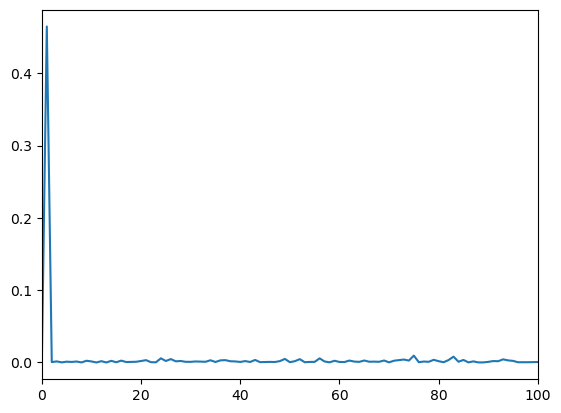
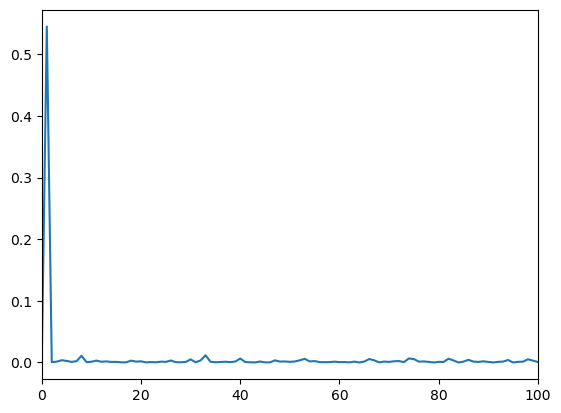
Update documentation

diff --git a/searchindex.js b/searchindex.js
@@ -1,1 +1,1 @@
-Search.setIndex({docnames:["ODE/1stODE","ODE/2ndODE","ODE/Laplace","ODE/Special_function","ODE/Sturm_Liouville","PDE/Fourier_Transform","PDE/Heat_equation","PDE/Laplace_equation","PDE/Wave_equation","README","content","intro","markdown","markdown-notebooks","notebooks"],envversion:{"sphinx.domains.c":2,"sphinx.domains.changeset":1,"sphinx.domains.citation":1,"sphinx.domains.cpp":3,"sphinx.domains.index":1,"sphinx.domains.javascript":2,"sphinx.domains.math":2,"sphinx.domains.python":2,"sphinx.domains.rst":2,"sphinx.domains.std":2,"sphinx.ext.intersphinx":1,"sphinxcontrib.bibtex":7,sphinx:56},filenames:["ODE/1stODE.md","ODE/2ndODE.md","ODE/Laplace.md","ODE/Special_function.md","ODE/Sturm_Liouville.md","PDE/Fourier_Transform.ipynb","PDE/Heat_equation.md","PDE/Laplace_equation.md","PDE/Wave_equation.md","README.md","content.md","intro.md","markdown.md","markdown-notebooks.md","notebooks.ipynb"],objects:{},objnames:{},objtypes:{},terms:{"000897":[],"001":3,"001020":5,"00146583":5,"004372":[],"00951841":[],"020358":[],"03115555":[],"0390407":[],"04475298":[],"08225842":[],"0th":[2,3],"0x103b4c4f0":5,"0x103ee1490":[],"0x1042f94f0":[],"0x104663f70":[],"0x1047cf4f0":[],"0x105c99ca0":14,"0x1093454f0":[],"0x1226221f0":[],"100":[3,4,5,14],"1000":[3,4,5],"103":3,"104":3,"105":3,"106":3,"108":3,"114":3,"115":3,"122":3,"126":3,"127":3,"1298":5,"132":3,"133":3,"137":3,"144":6,"145":6,"146":6,"151":6,"153":6,"164":6,"1717":8,"175":8,"1783":8,"1803":4,"1809":4,"181":8,"1822":6,"184":8,"185":8,"1855":4,"187":8,"1882":4,"189":8,"191":8,"195":8,"196":8,"19680801":14,"1982":3,"199":8,"1st":[1,2,3,6,11],"2017":[11,12],"205":8,"206":8,"213":7,"215":7,"217":7,"220":7,"222":7,"2a_":1,"2a_0":1,"2a_n":1,"2as":2,"2dx":4,"2nd":[0,2,3,6,8,11],"2pi":4,"2sy":2,"2t_":2,"2ux":0,"2xt":3,"2xy":1,"2y_":8,"30x":3,"35x":3,"429565":[],"437844":5,"472986":[],"4ae":1,"4sy":2,"4t_":2,"546832":[],"57721566":3,"94978566":[],"96410867":5,"9ae":1,"\u03bb":3,"\u8f38\u51fa\u7d50\u679c":5,"case":[0,2,3,4,6,7,8],"class":11,"default":[12,13],"final":[0,1,2,4,6],"float":[3,5],"fran\u00e7oi":4,"function":[0,1,6,7,8,11,12],"h\u00f4pital":3,"import":[0,1,2,3,4,5,6,11,14],"int":[0,1,2,4,6],"long":[0,1,3,4,8],"new":[2,3,4,7],"return":5,"short":10,"try":[1,2,3,4,6,8],"while":[0,3,4,6,7,8],Adding:8,But:[3,14],For:[0,1,2,3,4,6,7,8,12,14],ODE:[2,3,4,6,8,11],ODEs:[0,1,2,3,4,11],One:[0,1,2,3,4,6,8],P_s:0,Such:6,That:[1,2,6,8,13],The:[0,2,6,7,8,11,12,13],Then:[0,1,2,3,4,6,8],There:[0,1,2,3,4,10,11,12,14],These:[4,8],Use:0,Using:[0,1,2,4,6,7,8],With:[1,6,8,13],_0e:1,__init__:5,_ioncontext:14,a_0:[3,6],a_1:[1,3,4],a_1i:4,a_2:[1,4],a_2i:4,a_even:3,a_i:1,a_k:[4,5,8],a_n:[1,3,4,6,8],a_nx:3,abil:2,abl:1,about:[0,1,2,3,4,6,8,12,13,14],abov:[0,1,2,3,4,6,7,8,11],ac_2:4,acceler:[0,3],accept:12,accord:[0,1,2,3,4,6,8],accuraci:4,achiev:4,act:2,actual:[2,4],add:[6,12],add_:14,addit:[1,2,3,4,6],adiabat:0,adjac:8,adjoint:4,advanc:[11,12],advantag:0,advect:6,after:[2,4],again:[0,1,2,3,6,12],against:8,air:0,alambert:8,alembert:11,algebra:[1,2],align:[0,1,2,3,4,6,7,8,14],all:[0,1,2,3,4,6,8,11,12,13],allow:12,along:[1,3,6,8],alpha:[0,1,2,6,8],alpha_:6,alreadi:[0,2,12],also:[0,1,2,3,4,6,7,8,11,12,13,14],altern:[1,3,7],although:4,alwai:[0,4,6,8],amount:0,amplif:3,amplitud:[3,4],analysi:[0,6,11],analyt:[0,11],analyz:1,angl:0,angular:3,ani:[0,1,2,3,4,8,12,13],anoth:[0,1,2,3,4,12],answer:[0,1,2],appar:[1,3],appear:6,appli:[0,1,2,3,4,6,8,11],applic:[0,3,6],approach:[0,1,4,6,7,8,11],approx_i:4,approxim:4,arang:5,arbitrari:3,area:[1,3,4],ares:6,argmax:5,argument:3,aris:[2,3],around:[1,3,4],arrai:14,asarrai:5,assign:8,associ:[1,12],assum:[0,1,2,3,4,6,7,8],atmospher:[0,1,2,3,8,11],atom:6,attempt:[6,8],au_x:6,averag:[2,3],axes:14,axi:4,b_1:4,b_1y:4,b_2:4,b_2y:4,b_k:[4,5,8],b_n:[4,6,8],b_ne:6,back:[0,1,2,3,6,7,8],background:0,balanc:[0,6],ballist:0,bar:4,base:[0,1,2,3,4,11,13],basi:[2,4,6],basic:11,becaus:[2,3,6,8],becom:[2,3],been:[2,3,4],befor:[1,2],begin:[0,1,2,3,4,6,7,8,14],behind:1,being:12,below:[0,1,2,3,4,7],bernard:0,bernoulli:11,bessel:[4,7,11],bessel_output:3,beta:[1,2,6,8],better:1,between:[0,1,2,3,4,6,8],bib:12,bibliographi:12,bibtex:12,big:6,bit:1,block:[12,13],book:[12,13,14],both:[0,1,2,3,6,7,8,11,12],bottom:2,bound:[2,3,4,6],boundari:[0,1,6,7,8,11],box:12,build:12,built:[12,13],buoyanc:0,butterfli:0,by_1:1,by_2:1,c_0:[3,4],c_1:[1,2,3,4],c_1e:[1,2,4],c_1x:1,c_1y:1,c_1y_1:1,c_2:[1,2,4],c_2e:[1,2,4],c_2x:1,c_2y:1,c_2y_2:1,c_3:[1,3],c_3e:1,c_4:1,c_4e:1,c_5:3,c_7:3,c_k:[4,5],c_n:[3,4,6,7],c_p:0,c_v:0,calcul:[0,1,2,3,4,8],calculu:11,call:[0,1,2,3,4,6,12],can:[0,1,2,3,4,6,7,8,12,13,14],care:6,carri:[0,6],cartesian:7,cast:5,categor:[0,1,11],categori:[6,11],caus:[3,6],cbook:5,cdot:[1,2,3,6],cell:12,cengag:[11,12],center:[1,4],central:8,certain:[0,1,2,4,6,7,8],certainli:0,challeng:1,chang:[0,1,4,6,8],chao:[0,4],chapter:[1,2,3,4,6,7],character:0,characterist:[1,2,4,6,11],charl:4,check:[0,3,14],choic:[1,3],choos:[3,6,8],chosen:[4,6],circul:[0,2,3,4],circular:1,cite:12,classic:1,close:[0,1,4,6],cmap:14,code:[4,13],coef:4,coeffici:[2,3,6,8,11],cold:14,collect:3,color:14,combin:[0,1,3,4,6,7,8],come:[0,6],command:[12,13],common:0,commonmark:12,compar:[0,1],complet:[0,1,3,4,7,8],complex:[2,3,5,12],complexwarn:5,complic:[1,4,6,8],compon:2,comput:12,concentr:3,concept:[0,1,4],conclus:4,condit:[0,1,2,6,11],conjug:[1,5],connect:[0,2,4],conserv:[0,6,8],consid:[0,1,2,3,6,8],consin:8,consist:[2,6],constant:[0,2,3,4,6,7,8,11],constrain:[1,6],constraint:[3,6],content:[12,13],continu:[1,4],contribut:4,convect:[0,2],conveni:1,converg:[1,4],convert:[2,4,6,8,13],convolut:[4,11],coolwarm:14,coordin:[0,1,2,3,4,7,8],core:3,correspond:[0,1,2,3,4,7,8],cos:[0,1,2,3,5,6,7,8],cosh:2,count2:3,count:3,counteract:0,counterpart:2,cours:[0,1,3,4],covari:4,cover:[0,1,2,3,4,10],cramer:1,creat:[2,14],criteria:2,cross:[0,1,4],current:[0,1],custom_lin:14,cycl:4,cycler:14,cyclon:[0,3],cylind:[3,4,11],cylindr:3,data:[2,4,14],deal:[2,7,8],decid:[0,1,4],decompos:[1,2,3,7],decomposit:[1,2,3],default_env2:5,defin:[0,1,2,3,4,7,12,13],definit:[0,2,4],delta:[6,11],delta_:2,demonstr:[4,6,8],denomin:2,denot:3,densiti:[0,6],depart:2,depend:[1,6,12],deriv:[0,1,2,3,4,6,8],describ:[1,4,8],detail:[0,1,2,3,4,13],determin:[0,1,2,3,4,6,8],develop:[3,6,8],did:6,differ:[0,2,3,4,6,11,12],differenti:[0,1,2,3,4,6,11],diffus:[3,4,7,11],dim:3,dimens:[0,6,11],dirac:11,direct:[0,3,6,7,8,13],directli:[1,12],dirichlet:11,discard:[2,5],discontinu:2,discret:4,discuss:[1,3,4],dispers:[0,11],displac:[1,8],displai:[12,13],distinct:4,distribut:6,dive:2,divid:[0,2,4,6,7],doc:12,document:[12,13,14],doe:[1,2,4,6],doesn:[1,2,6,12],doing:6,dollar:14,domain:[4,6,7],don:[2,3,4],done:[0,3],down:[0,6],drag:0,drive:2,drop:[1,3,6],dt_:2,due:3,durat:2,dure:[0,4],dynam:[0,3,4,8],each:[0,1,2,3,4,6,7,8],earth:[0,1,3,4,6],easi:[0,4,6],easier:1,easiest:0,easili:[0,1,3,4,6,8],ecosystem:12,edg:[4,7],effect:[2,3,4],effici:[0,3],eigen:[3,4,6],eigenfunct:11,eigenvalu:3,either:6,electromagnet:3,emb:14,emit:1,enabl:[1,2,3],end:[0,1,2,3,4,5,6,7,8,14],energi:[0,3,4,6],engin:[4,6,11,12],enough:[1,6],enso:1,ensur:6,entir:[0,1,2,3,4,6,7,8,12],env:5,environ:6,environment:6,epsilon:2,equal:[1,2,3,4,6,7],equat:[0,2,3,4,11],equilibrium:[4,6],equip:11,equiv:3,equival:[0,4,6,8],era:4,escap:14,especi:[6,8],eta:8,etc:14,euler:[3,11],evalu:6,even:[0,3,4,11],everi:[1,4],evid:[1,2,4],evolv:[1,6],exactli:[0,2],examin:[0,3],exampl:[3,11,12,14],except:[1,8],exchang:[0,6],execut:13,exist:[0,2,4,6,8,11,12],exp:5,expand:[0,3],expans:[1,3,11],expect:[6,8,11],experi:[0,2],expert:2,explain:4,expon:[1,3],exponenti:2,express:3,extend:6,extens:12,extern:[1,6,8],extrem:[2,4],eyewal:2,f_1:1,f_2:1,f_i:1,f_n:1,face:0,fact:[3,6],factor:[0,2,4],fall:[0,6],familiar:6,famou:[2,3,4],far:[0,6],featur:[3,4],feel:3,few:[0,1,3,4,6,10],fft:5,field:[0,2],fig1:0,fig:[4,14],figsiz:14,figur:[0,1,2,3,4,7],file:13,filter:[2,4,11],find:[0,1,2,3,6,7,8,11],finit:[2,6,8],fire:1,first:[0,1,2,3,4,6,7,8,11,12],fix:[8,14],flat:4,flatten:6,flavor:12,float64:3,flow:0,flowchart:2,fluid:3,flux:6,focu:[2,3],follow:[0,1,2,3,4,6,7,8,12,13],forc:[0,1,2,8,11],forget:3,form:[2,3,6,7,8,11],formul:11,formula:11,forth:[0,2,3],found:[0,4],four:7,fourier:[2,3,6,8,11],frac:[0,1,2,3,4,6,7,8],fraction:2,free:0,frequenc:[2,4],friction:6,from:[0,1,2,3,4,6,8,14],fundament:1,further:[0,1,3,4],gamma:3,gap:2,gas:0,gaussian:6,gdt:0,gener:[0,2,4,8,11],geometr:4,geometri:3,geophys:3,geq2:3,geq:3,get:[0,1,2,3,6,7,13],gibb:11,give:[0,1,2,3,4],given:[1,2,3,4,6,8],goal:[2,6],goe:[2,4],going:8,gonna:[4,8],gradient:6,gradual:6,graviti:0,great:4,greater:2,green:11,greenhous:0,grid:3,growth:2,guess:[1,2,4,6],guid:14,hack:3,had:0,hadlei:3,half:6,hand:[0,1,2,3,6],handl:2,happen:[2,3,6],hard:[3,7,8],harmon:[1,3,7],has:[0,1,2,3,4,6,7,8,12],hat:[1,6],have:[0,1,2,3,4,6,7,8,13],heat:[0,1,3,7,8,11],heavili:4,heavisid:11,height:2,help:[0,1,11],here:[0,1,2,3,4,6,8,12,14],hermit:4,hermitian:4,high:[2,4],higher:[0,1,2,3,4,6,11],hint:[0,2,3],his:[0,4],histori:11,hold:1,holdgraf_evidence_2014:12,homogen:[3,4,6,8,11],hook:8,hopefulli:11,hot:14,how:[0,1,4,6,7,8,10,11,13],howev:[0,1,4,6],html:14,hurrican:[2,4],hwang:2,hyperbol:11,i2x:1,ib_n:6,idea:[0,8],ideal:0,ident:[2,4],identifi:1,ignor:0,iii:[4,11],ikx:6,illustr:3,imag:[5,14],imagin:1,imaginari:[3,5],implement:4,impli:[1,4,6,8],implicit:11,implicitli:0,imposs:0,impuls:11,includ:[0,1,6,11,12,13,14],increas:[1,4],increment:8,inde:[1,3,4],independ:[0,3,6,8,11],index:3,indic:[0,1,2,3,4,6,7,8],induct:3,infer:7,infin:2,infinit:[2,3,4,6],inflow:3,influenc:3,inform:[0,12,13,14],infti:[0,2,3,4,6,7,8],inhomogen:[3,4],init:[12,13],initi:[0,6,11],inner:[3,4],input:12,insert:12,insid:12,inspect:[0,1,2],instead:[1,4,6],instruct:13,int_0:2,int_:[2,3,4,6,7,8],int_a:2,integ:[0,3,4],integr:[0,1,2,3,4,6,8],integrat:0,intensif:3,interact:14,interest:[2,3,4,6],interpret:1,interv:1,intro:12,introduc:[1,2,3,4,6,7],intuit:[2,6],invers:[2,6],involv:1,ion:14,ipynb:12,itcz:[0,4],its:[0,1,2,3,4,6,8,12],j_0:3,j_4:3,j_n:3,jacobian:8,jacqu:4,jean:8,joseph:[4,6],julia:4,jump:[2,4],jupyt:[12,13,14],jupytext:[12,13],just:1,kappa:6,kappa_:6,kappa_c:6,kappa_ct:6,kct:8,keep:[6,14],kei:[1,6],kernel:[6,12,13],kind:[0,1,3,4,6,12],know:[0,1,2,3,4,6,7,8],known:[0,3,8],ku_:6,kv_:6,la_:14,label:[4,5],lambda:[3,4,6,7,8],lambda_n:[4,7],langl:4,languag:[0,12],laplac:[1,3,4,11],last:[0,3,4,6],later:[1,2,3,4,6],law:[0,6,8],lead:[0,1,2,3,4,6],learn:[0,1,2,4,11,12],least:[0,1,6],leav:[0,1,3,4,6,8],left:[0,1,2,3,4,6],legend:[5,14],legendr:[4,7,11],legendre_even:3,length:[3,4,8],leq:[4,6,7,8],less:[2,12],let:[0,1,2,3,4,6,7,8,13],leverag:[1,2,3,4],lib:5,like:[0,1,2,3,4,6,12,13],lim:3,lim_:[3,4],limit:[0,2,6],line2d:14,line:[3,11,12,13,14],linear:[1,2,4,6,7,8,11],linearli:[1,3],linspac:14,liouvil:[3,6,7,11],local:[1,2,6],locat:[0,1,4],logspac:14,longest:4,longrightarrow:[2,4],look:[0,2,3,4,6,8,12],loop:2,lorenz:0,lot:[0,1,2,4,14],lower:[0,2,3,7],luckili:0,machin:2,maclaurin:3,main:[1,11],make:[0,1,2,4,6,8,14],mani:[0,1,2,3,10,12,13],map:2,markdownfil:13,markedli:12,markup:12,mask:2,match:4,materi:[6,8],math:[0,4,11,14],mathbb:[4,6],mathbf:1,mathcal:[2,6],mathemat:[2,4,6,11,12],mathematician:4,mathrm:0,matplotlib:[5,14],matrix:[4,5,8],maximum:[3,4],mbox:14,mean:[0,1,2,6,8,14],mechan:4,medium:[4,14],memor:4,mention:1,mere:0,meridion:3,metadata:12,method:[1,2,8],middl:2,might:1,mimic:1,miniconda3:5,minimum:4,mix:6,mode:[3,6],model:[0,4,6],molecular:6,moment:4,momentum:[3,4],more:[0,1,2,3,4,6,8,11,12,13,14],moreoev:12,most:[0,1,3,4,8,12],motion:1,move:[0,6],much:[1,3,8],multipl:[0,1,2,3,4,8],multipli:[0,1,2,3,4,5],must:[4,12],mydirectivenam:12,n_max:3,nabla:[3,7],name:[4,8,12],nearbi:6,nearli:[2,4],necessari:[0,2,6],necessarili:6,need:[0,1,2,3,4,6,13],neighbor:[4,6],neil:[11,12],neq:[3,4,6],neumann:11,nicknam:2,nj_:3,nois:[2,5],noisi:2,non:[0,1,2,3,4,7],nonhomogen:11,nontrivi:3,nonzero:[3,4],normal:[3,5],note:12,notebook:12,noth:[4,7],notic:[0,1,2,4,6],now:[0,1,2,4,6,8],np_:3,nth:3,number:[2,3,4,6,8],numer:[0,2,11],numpi:[5,14],object:0,observ:[1,2,3,4,6,8],obtain:[0,3,4],occupi:6,occur:4,ocean:1,odd:[3,8],off:13,omega:7,onc:12,one:[0,1,2,3,4,6,7,8,12],oneil17:[11,12],onli:[0,1,3,4,6,7,8,12],onto:[2,6],open:1,oper:[0,2,4],opposit:[7,8],optic:8,order:[2,3,4,6,8,11],ordinari:[0,1,4,11],organ:2,origin:[1,2,6,8],oscil:1,other:[0,1,2,3,4,7,8,13],otherwis:[0,1],our:[0,2,4,6],out:[0,2,4,6,14],output:[12,13],outsid:[4,6],over:[1,2,3,4,6,8],overturn:0,p_0:3,p_1:3,p_2:3,p_3:3,p_4:3,p_n:3,packag:5,page:[12,13],panel:[2,7],paper:3,parabol:[3,4],paramet:[1,4,6],part:[2,3,5,6,7,11],partial:[0,3,4,6,8,11],particl:1,particular:[0,11],partit:0,path:[0,12,13],pattern:12,peopl:4,perhap:[1,2],period:4,peter:[11,12],phenomena:3,phenomenon:[0,11],phi:3,physic:[2,3,4,6,8,11],pictur:[2,4],piec:1,place:[0,6],plai:[3,4],plain:0,plane:[8,11],plate:6,plot:[3,4,5,14],plt:[5,14],plu:2,pm2i:1,point:[0,1,2,4],poisson:11,polar:[3,7],pole:3,polynimi:11,polynomi:[1,4,7],posit:[4,8],possibl:[0,1,2,6],post:14,potenti:[0,11],power:[1,3,11,12],practic:[0,3,4,6,8],pre:12,precis:[0,4],predict:[1,4],predictor:4,prerequisit:11,presenc:13,pressur:0,previou:[1,2,6],previous:4,principl:[1,4],print:[5,12,13],probabl:4,problem:[0,3,4,11],procedur:[0,3],process:[2,3],process_tim:5,product:[1,3,4],project:[2,6],proof:[0,1,2,3],prop_cycl:14,propag:8,proper:[0,4],properli:[4,8,12],proport:[0,6],prove:[1,3,4],provid:[0,2,4],psi:[3,4,6,8],psi_:6,puls:2,purpos:[6,12],pursuit:0,put:[3,6],pyplot:[5,14],python3:5,quantiti:2,quantum:[3,4],question:[0,3,4,6,8,11],quick:0,quickli:6,r_1:1,r_1x:1,r_2:1,r_2x:1,radi:0,radial:3,radiat:[1,4,6],randn:14,random:[5,14],rang:[3,4,14],rangl:4,rare:[0,7],rate:[2,6],ration:6,raw:[2,5],rayleigh:0,rcparam:14,rdt:0,reader:[0,1,2,3,4,6,7,8],real:[2,4,5,8,11],rearrang:[0,2,3,6],reason:3,recal:[1,2,3,4,6],recurr:[1,11],redistribut:6,reduc:[0,4],refer:[3,12],region:6,regress:4,regular:[4,12],rel:[0,12],relat:[0,1,7,8,11],relationship:[3,11],remain:2,remov:[0,4],render:12,reorgan:[0,1,2,3,4,6],repeat:2,replac:[0,3],repres:[0,1,3,4,6,8],reproduc:14,requir:[0,1,11],research:11,reshap:4,resolv:4,respect:[0,3,6,8],respons:[0,1],rest:[12,13],restor:8,result:[1,3,4,6,8,12],retain:4,retangl:[],retriev:3,rewrit:[0,1,2,3,8],rewritten:[6,8],rho:6,riccati:11,rid:0,right:[0,1,2,3,4,6],rightarrow:[3,4,6,8],rise:3,river:0,role:[2,3,4],rolenam:12,root:2,rossbi:0,rule:[1,2,3],run:[2,12,13],s_1t:2,s_2t:2,sai:[0,2],same:[0,1,2,3,4,6,7,8,12],sampl:14,satisfi:[0,3,4,6,7,8],scale:6,scatter:4,scenario:1,schemat:[0,1,2],schubert:3,scienc:[0,2,3,6,8,11],scientif:[4,11],sec:[0,1],second:[1,2,3,4,5,6,7,8,11],section:[1,4,10],see:[0,1,2,3,6,7,12,13,14],seed:14,seen:1,self:4,separ:[3,4,6,7,8,11],seri:[2,11],serv:12,server:1,set:[1,2,3,4,6,7,8,11],setup:[2,4,11],sever:3,shape:2,share:[0,1,2,4,5,8],shift:[4,11],shock:2,should:[0,1,2,4,6,13],show:[0,1,2,3,4,8,13],shown:1,side:[0,1,2,3,6,7],sign:[4,6,7,8,14],signal:[2,4,5,6],signific:3,sim:[3,6,8],similar:[0,1,2,3,4,6,7,8,12],similarili:6,similarli:[0,2,3,4,8],simpl:[1,4,6,8],simpler:8,simplest:[1,3,6,12],simpli:[0,1,4,6],simplic:6,simplif:6,simplifi:[2,3],sin:[0,1,2,3,6,7,8],sinc:[0,1,2,3,4,7],singular:4,sinh:[2,7],sit:1,site:5,size:[2,5,6],skill:11,slight:12,slightli:[2,8],small:[2,4,6,8,12],smaller:3,smooth:[2,6],solut:[0,2,7,11],solv:[0,1,2,3,4,6,7,8,11],solvabl:6,some:[0,2,3,4,6,11,12,14],someth:[2,3],sometim:[2,3],sourc:[1,6],space:[1,3,4,6,11],span:[1,4,12],spatial:6,special:[0,1,2,4,6,7,8,11],specialfunct:3,specif:[0,6,8,12],specifi:[2,4,7],spectrum:11,speed:[0,8],sphere:3,spheric:3,sphinx:12,spread:4,sqrt:[0,1,2,3,4,6,8],squar:[0,4,6],sst:[1,2],st_:2,stage:1,stand:12,start:[0,1,2,5,6,13],state:[1,14],statist:4,stead:6,step:[0,1,2,3,4,6],still:[1,2],store:12,stove:1,str:5,straightforward:0,stretch:[4,8],strict:4,string:[8,11],structur:[3,6,7,12],student:11,studi:[2,3,6],sturm:[3,6,7,11],subject:0,subplot:[5,14],substitut:[0,1,2,3,4,6,7,8],subtract:[2,3],suggest:[1,3,4,6,8],sum:[1,3,8],sum_:[1,3,4,6,7,8],sum_i:1,sum_legendre_even:3,sum_x:3,summat:4,superposit:1,support:13,suppos:[6,8],sure:14,surround:4,swap:4,swim:0,swimmer:0,syllabu:12,syntax:12,system:[0,1,4],t_0:2,t_1:[2,6],t_2:[2,6],t_i:2,t_k:8,t_n:[6,8],take:[0,1,2,3,4,5,6],taken:1,talk:1,tan:[0,1,4],tangenti:3,tau:[2,6],taylor:[1,3],techniqu:[0,1,2,7,11],tell:[0,1,2,4,6],temperatur:[0,1,3,4,6],tempor:[6,8],term:[0,1,2,3,4,6,8],termin:0,test:[0,4,11],tex:14,text:[2,4,12,13],textbook:4,textrm:[2,3,4,6,7,8],than:[0,1,2,3,4,6],thei:[1,3,4,12],them:[0,1,3],theorem:[6,7,11],therefor:[0,1,2,3,4,6,7,8],thermal:[4,6],thermodynam:0,theta:[3,7],thi:[0,1,2,3,4,6,7,8,10,11,12,13,14],thin:4,thing:[3,4,13],think:[2,3,6,8],third:[1,3,4],those:[1,7,12],three:[0,1,2,4,6,11],through:[0,1,2,3,4,6,11],thu:6,time:[0,1,2,5,6,12],ting:2,tip:[2,10],todai:[0,1,2,7],togeth:[6,8],tool:12,top:[2,13],topic:11,total:7,tradit:0,trajectori:0,transform:[0,1,3,6,8,11],transpos:4,transvers:[0,2,3,4],travel:0,treat:13,trick:6,trigonometr:1,trivial:[1,3,4],tropic:[0,3,4],truncat:[3,4],twice:8,two:[0,1,2,3,4,6,7,8,12,13],type:[0,1,6,11],typic:3,u_1:1,u_2:1,u_i:7,u_t:6,u_x:6,u_xx:6,ubiquit:8,unbound:3,uncertainti:4,undermin:1,understand:[1,6,13],undetermin:[1,2],uneven:3,unfortun:0,uniqu:[2,4,11],unit:2,until:2,upper:[2,7],use:[0,1,2,3,4,6,7,12],used:[0,1,2,3,4,11,12],useful:3,user:5,uses:[12,13],using:[0,1,2,3,4,6,7,8,13],usual:[0,1,2,3,4,6],v_t:6,v_x:6,v_xx:6,valid:12,valu:[0,3,4,5,8,11],vanish:3,vari:6,variabl:[0,3,4,6,7,8,11],varianc:4,variat:[1,4,6,12],varieti:11,varphi:[0,4],varphi_k:4,varphi_n:4,vector:[0,4],vein:[0,6],veloc:[0,1,8],veri:[0,1,2,3,6,11,12],verifi:6,versa:6,vertic:[3,7],vibrat:8,vice:6,visual:[2,3,4,6],vmatrix:[1,4],volum:0,wai:[0,1,2,3,4,6,7,10],walk:[0,1,2,4,11],want:[4,6,7,14],warm:1,wave:[0,2,4,6,7,11],wavi:3,weber:3,week:11,weight:3,well:[0,8,14],were:4,what:[1,4,6,11],when:[0,1,2,3,4,6,7,12,13],where:[0,1,2,3,4,6,8],wherea:12,whether:[4,12],which:[0,1,2,3,4,6,7,8,11,12,13],white:5,white_nois:5,who:0,whole:[0,7],why:[1,3,6,8],wide:[0,1,2,3,11],width:4,wiggl:[2,4],wikipedia:1,wind:3,window:[2,11],within:6,without:[0,1,4,6],wok:1,work:[0,11,12,14],world:2,worri:0,would:[0,2,4],write:[0,6,10,12,13],written:[0,1,2,3,4,6,7,8,12,13],wronskian:[4,11],x_0:[0,1,8],x_i:1,x_j:1,x_n:[6,7,8],x_t:8,xai:1,xdx:0,xlim:[4,5],xp_n:3,xyt:6,y_1:[0,1],y_2:[0,1],y_g:1,y_i:1,y_n:[6,7,8],y_p:1,y_t:8,y_x:8,yen:2,yield:[0,2],ylim:4,you:[0,1,11,12,13,14],your:[13,14],zero:[1,2,3,4,6,7],zonal:3},titles:["Week 1 and 2: 1st-order ODE","Week 3 and 4: 2nd-order ODE","Week 5 and 6: Laplace Transform","Week 9 and 10:  Special Functions","Week 7 and 8:  Sturm-Liouville Theorem: Eigenfunctions and Fourier Series","&lt;no title&gt;","Week 11:  Heat Equation","Week 13:  Laplace Equation","Week 12:  Wave Equation","Applied_Math","Content in Jupyter Book","Syllabus","Markdown Files","Notebooks with MyST Markdown","Content with notebooks"],titleterms:{"1st":0,"2nd":1,"case":1,"function":[2,3,4],Adding:12,ODE:[0,1],The:[1,3,4],Using:12,add:13,alembert:8,analysi:4,applied_math:9,approach:2,basic:1,bernoulli:0,bessel:3,block:14,book:[10,11],both:4,boundari:4,categori:[0,1],cell:13,characterist:8,citat:12,code:[12,14],coeffici:[1,4],complex:1,condit:[4,7,8],constant:1,content:[10,14],continu:2,convect:6,convolut:2,cos:4,cours:11,creat:13,delta:2,differ:1,diffus:6,dirac:2,direct:12,dirichlet:7,disk:7,dispers:8,distinct:1,eigenfunct:4,equat:[1,6,7,8],euler:1,exact:0,exampl:[0,1,2,4,6,8,13],execut:12,exist:1,expans:4,file:12,find:4,forc:6,form:[0,1,4],formula:6,fourier:4,gener:[1,3],gibb:4,green:2,heat:6,heavisid:[2,4],histori:6,homogen:[0,1],how:2,iii:1,impuls:2,inclus:6,independ:1,initi:[1,2,7,8],insul:6,jupyt:10,laplac:[2,7],legendr:3,line:8,linear:0,liouvil:4,markdown:[12,13,14],medium:8,metadata:13,modifi:3,motion:8,myst:[12,13,14],nonhomogen:[1,6],note:[3,4],notebook:[13,14],order:[0,1],origin:3,orthogon:4,other:6,outlin:11,output:14,particular:1,phenomenon:4,piecewis:2,plane:6,polynomi:3,power:4,problem:[1,2,6,7,8],process:6,proof:4,properti:1,quickli:13,real:[1,6],rectangl:7,recurr:3,relat:3,relationship:8,repeat:1,riccati:0,role:12,root:1,separ:0,seri:[1,3,4],setup:[7,8],shift:2,sin:4,solut:[1,3,4,6,8],some:1,space:[2,8],special:3,spectrum:4,stick:6,string:6,structur:8,sturm:4,syllabu:11,tabl:2,test:1,theorem:[1,2,4],time:8,transform:[2,4],type:4,unbound:8,uniqu:1,valu:[1,2],wave:8,week:[0,1,2,3,4,6,7,8],weight:4,what:[0,2,12],window:4,work:2,wronskian:1,yaml:13,your:12}})
+Search.setIndex({docnames:["ODE/1stODE","ODE/2ndODE","ODE/Laplace","ODE/Special_function","ODE/Sturm_Liouville","PDE/Fourier_Transform","PDE/Heat_equation","PDE/Laplace_equation","PDE/Wave_equation","README","content","intro","markdown","markdown-notebooks","notebooks"],envversion:{"sphinx.domains.c":2,"sphinx.domains.changeset":1,"sphinx.domains.citation":1,"sphinx.domains.cpp":3,"sphinx.domains.index":1,"sphinx.domains.javascript":2,"sphinx.domains.math":2,"sphinx.domains.python":2,"sphinx.domains.rst":2,"sphinx.domains.std":2,"sphinx.ext.intersphinx":1,"sphinxcontrib.bibtex":7,sphinx:56},filenames:["ODE/1stODE.md","ODE/2ndODE.md","ODE/Laplace.md","ODE/Special_function.md","ODE/Sturm_Liouville.md","PDE/Fourier_Transform.ipynb","PDE/Heat_equation.md","PDE/Laplace_equation.md","PDE/Wave_equation.md","README.md","content.md","intro.md","markdown.md","markdown-notebooks.md","notebooks.ipynb"],objects:{},objnames:{},objtypes:{},terms:{"000897":[],"001":3,"001020":[],"00146583":[],"002986":5,"004372":[],"00951841":[],"020358":[],"03115555":[],"0390407":[],"04192934":5,"04475298":[],"06939441":5,"08225842":[],"0th":[2,3],"0x103b4c4f0":[],"0x103ee1490":[],"0x1041099a0":5,"0x1042f94f0":[],"0x104663f70":[],"0x1047cf4f0":[],"0x105c99ca0":[],"0x1084a3f70":14,"0x1093454f0":[],"0x1226221f0":[],"100":[3,4,5,14],"1000":[3,4,5],"103":3,"104":3,"105":3,"106":3,"108":3,"114":3,"115":3,"122":3,"126":3,"127":3,"1298":5,"132":3,"133":3,"137":3,"144":6,"145":6,"146":6,"151":6,"153":6,"164":6,"1717":8,"175":8,"1783":8,"1803":4,"1809":4,"181":8,"1822":6,"184":8,"185":8,"1855":4,"187":8,"1882":4,"189":8,"191":8,"195":8,"196":8,"19680801":14,"1982":3,"199":8,"1st":[1,2,3,6,11],"2017":[11,12],"205":8,"206":8,"213":7,"215":7,"217":7,"220":7,"222":7,"252729":5,"2a_":1,"2a_0":1,"2a_n":1,"2as":2,"2dx":4,"2nd":[0,2,3,6,8,11],"2pi":4,"2sy":2,"2t_":2,"2ux":0,"2xt":3,"2xy":1,"2y_":8,"30x":3,"35x":3,"429565":[],"437844":[],"472986":[],"4ae":1,"4sy":2,"4t_":2,"546832":[],"57721566":3,"94978566":[],"96410867":[],"9ae":1,"\u03bb":3,"\u8f38\u51fa\u7d50\u679c":5,"case":[0,2,3,4,6,7,8],"class":11,"default":[12,13],"final":[0,1,2,4,6],"float":[3,5],"fran\u00e7oi":4,"function":[0,1,6,7,8,11,12],"h\u00f4pital":3,"import":[0,1,2,3,4,5,6,11,14],"int":[0,1,2,4,6],"long":[0,1,3,4,8],"new":[2,3,4,7],"return":5,"short":10,"try":[1,2,3,4,6,8],"while":[0,3,4,6,7,8],Adding:8,But:[3,14],For:[0,1,2,3,4,6,7,8,12,14],ODE:[2,3,4,6,8,11],ODEs:[0,1,2,3,4,11],One:[0,1,2,3,4,6,8],P_s:0,Such:6,That:[1,2,6,8,13],The:[0,2,6,7,8,11,12,13],Then:[0,1,2,3,4,6,8],There:[0,1,2,3,4,10,11,12,14],These:[4,8],Use:0,Using:[0,1,2,4,6,7,8],With:[1,6,8,13],_0e:1,__init__:5,_ioncontext:14,a_0:[3,6],a_1:[1,3,4],a_1i:4,a_2:[1,4],a_2i:4,a_even:3,a_i:1,a_k:[4,5,8],a_n:[1,3,4,6,8],a_nx:3,abil:2,abl:1,about:[0,1,2,3,4,6,8,12,13,14],abov:[0,1,2,3,4,6,7,8,11],ac_2:4,acceler:[0,3],accept:12,accord:[0,1,2,3,4,6,8],accuraci:4,achiev:4,act:2,actual:[2,4],add:[6,12],add_:14,addit:[1,2,3,4,6],adiabat:0,adjac:8,adjoint:4,advanc:[11,12],advantag:0,advect:6,after:[2,4],again:[0,1,2,3,6,12],against:8,air:0,alambert:8,alembert:11,algebra:[1,2],align:[0,1,2,3,4,6,7,8,14],all:[0,1,2,3,4,6,8,11,12,13],allow:12,along:[1,3,6,8],alpha:[0,1,2,6,8],alpha_:6,alreadi:[0,2,12],also:[0,1,2,3,4,6,7,8,11,12,13,14],altern:[1,3,7],although:4,alwai:[0,4,6,8],amount:0,amplif:3,amplitud:[3,4],analysi:[0,6,11],analyt:[0,11],analyz:1,angl:0,angular:3,ani:[0,1,2,3,4,8,12,13],anoth:[0,1,2,3,4,12],answer:[0,1,2],appar:[1,3],appear:6,appli:[0,1,2,3,4,6,8,11],applic:[0,3,6],approach:[0,1,4,6,7,8,11],approx_i:4,approxim:4,arang:5,arbitrari:3,area:[1,3,4],ares:6,argmax:5,argument:3,aris:[2,3],around:[1,3,4],arrai:14,asarrai:5,assign:8,associ:[1,12],assum:[0,1,2,3,4,6,7,8],atmospher:[0,1,2,3,8,11],atom:6,attempt:[6,8],au_x:6,averag:[2,3],axes:14,axi:4,b_1:4,b_1y:4,b_2:4,b_2y:4,b_k:[4,5,8],b_n:[4,6,8],b_ne:6,back:[0,1,2,3,6,7,8],background:0,balanc:[0,6],ballist:0,bar:4,base:[0,1,2,3,4,11,13],basi:[2,4,6],basic:11,becaus:[2,3,6,8],becom:[2,3],been:[2,3,4],befor:[1,2],begin:[0,1,2,3,4,6,7,8,14],behind:1,being:12,below:[0,1,2,3,4,7],bernard:0,bernoulli:11,bessel:[4,7,11],bessel_output:3,beta:[1,2,6,8],better:1,between:[0,1,2,3,4,6,8],bib:12,bibliographi:12,bibtex:12,big:6,bit:1,block:[12,13],book:[12,13,14],both:[0,1,2,3,6,7,8,11,12],bottom:2,bound:[2,3,4,6],boundari:[0,1,6,7,8,11],box:12,build:12,built:[12,13],buoyanc:0,butterfli:0,by_1:1,by_2:1,c_0:[3,4],c_1:[1,2,3,4],c_1e:[1,2,4],c_1x:1,c_1y:1,c_1y_1:1,c_2:[1,2,4],c_2e:[1,2,4],c_2x:1,c_2y:1,c_2y_2:1,c_3:[1,3],c_3e:1,c_4:1,c_4e:1,c_5:3,c_7:3,c_k:[4,5],c_n:[3,4,6,7],c_p:0,c_v:0,calcul:[0,1,2,3,4,8],calculu:11,call:[0,1,2,3,4,6,12],can:[0,1,2,3,4,6,7,8,12,13,14],care:6,carri:[0,6],cartesian:7,cast:5,categor:[0,1,11],categori:[6,11],caus:[3,6],cbook:5,cdot:[1,2,3,6],cell:12,cengag:[11,12],center:[1,4],central:8,certain:[0,1,2,4,6,7,8],certainli:0,challeng:1,chang:[0,1,4,6,8],chao:[0,4],chapter:[1,2,3,4,6,7],character:0,characterist:[1,2,4,6,11],charl:4,check:[0,3,14],choic:[1,3],choos:[3,6,8],chosen:[4,6],circul:[0,2,3,4],circular:1,cite:12,classic:1,close:[0,1,4,6],cmap:14,code:[4,13],coef:4,coeffici:[2,3,6,8,11],cold:14,collect:3,color:14,combin:[0,1,3,4,6,7,8],come:[0,6],command:[12,13],common:0,commonmark:12,compar:[0,1],complet:[0,1,3,4,7,8],complex:[2,3,5,12],complexwarn:5,complic:[1,4,6,8],compon:2,comput:12,concentr:3,concept:[0,1,4],conclus:4,condit:[0,1,2,6,11],conjug:[1,5],connect:[0,2,4],conserv:[0,6,8],consid:[0,1,2,3,6,8],consin:8,consist:[2,6],constant:[0,2,3,4,6,7,8,11],constrain:[1,6],constraint:[3,6],content:[12,13],continu:[1,4],contribut:4,convect:[0,2],conveni:1,converg:[1,4],convert:[2,4,6,8,13],convolut:[4,11],coolwarm:14,coordin:[0,1,2,3,4,7,8],core:3,correspond:[0,1,2,3,4,7,8],cos:[0,1,2,3,5,6,7,8],cosh:2,count2:3,count:3,counteract:0,counterpart:2,cours:[0,1,3,4],covari:4,cover:[0,1,2,3,4,10],cramer:1,creat:[2,14],criteria:2,cross:[0,1,4],current:[0,1],custom_lin:14,cycl:4,cycler:14,cyclon:[0,3],cylind:[3,4,11],cylindr:3,data:[2,4,14],deal:[2,7,8],decid:[0,1,4],decompos:[1,2,3,7],decomposit:[1,2,3],default_env2:5,defin:[0,1,2,3,4,7,12,13],definit:[0,2,4],delta:[6,11],delta_:2,demonstr:[4,6,8],denomin:2,denot:3,densiti:[0,6],depart:2,depend:[1,6,12],deriv:[0,1,2,3,4,6,8],describ:[1,4,8],detail:[0,1,2,3,4,13],determin:[0,1,2,3,4,6,8],develop:[3,6,8],did:6,differ:[0,2,3,4,6,11,12],differenti:[0,1,2,3,4,6,11],diffus:[3,4,7,11],dim:3,dimens:[0,6,11],dirac:11,direct:[0,3,6,7,8,13],directli:[1,12],dirichlet:11,discard:[2,5],discontinu:2,discret:4,discuss:[1,3,4],dispers:[0,11],displac:[1,8],displai:[12,13],distinct:4,distribut:6,dive:2,divid:[0,2,4,6,7],doc:12,document:[12,13,14],doe:[1,2,4,6],doesn:[1,2,6,12],doing:6,dollar:14,domain:[4,6,7],don:[2,3,4],done:[0,3],down:[0,6],drag:0,drive:2,drop:[1,3,6],dt_:2,due:3,durat:2,dure:[0,4],dynam:[0,3,4,8],each:[0,1,2,3,4,6,7,8],earth:[0,1,3,4,6],easi:[0,4,6],easier:1,easiest:0,easili:[0,1,3,4,6,8],ecosystem:12,edg:[4,7],effect:[2,3,4],effici:[0,3],eigen:[3,4,6],eigenfunct:11,eigenvalu:3,either:6,electromagnet:3,emb:14,emit:1,enabl:[1,2,3],end:[0,1,2,3,4,5,6,7,8,14],energi:[0,3,4,6],engin:[4,6,11,12],enough:[1,6],enso:1,ensur:6,entir:[0,1,2,3,4,6,7,8,12],env:5,environ:6,environment:6,epsilon:2,equal:[1,2,3,4,6,7],equat:[0,2,3,4,11],equilibrium:[4,6],equip:11,equiv:3,equival:[0,4,6,8],era:4,escap:14,especi:[6,8],eta:8,etc:14,euler:[3,11],evalu:6,even:[0,3,4,11],everi:[1,4],evid:[1,2,4],evolv:[1,6],exactli:[0,2],examin:[0,3],exampl:[3,11,12,14],except:[1,8],exchang:[0,6],execut:13,exist:[0,2,4,6,8,11,12],exp:5,expand:[0,3],expans:[1,3,11],expect:[6,8,11],experi:[0,2],expert:2,explain:4,expon:[1,3],exponenti:2,express:3,extend:6,extens:12,extern:[1,6,8],extrem:[2,4],eyewal:2,f_1:1,f_2:1,f_i:1,f_n:1,face:0,fact:[3,6],factor:[0,2,4],fall:[0,6],familiar:6,famou:[2,3,4],far:[0,6],featur:[3,4],feel:3,few:[0,1,3,4,6,10],fft:5,field:[0,2],fig1:0,fig:[4,14],figsiz:14,figur:[0,1,2,3,4,7],file:13,filter:[2,4,11],find:[0,1,2,3,6,7,8,11],finit:[2,6,8],fire:1,first:[0,1,2,3,4,6,7,8,11,12],fix:[8,14],flat:4,flatten:6,flavor:12,float64:3,flow:0,flowchart:2,fluid:3,flux:6,focu:[2,3],follow:[0,1,2,3,4,6,7,8,12,13],forc:[0,1,2,8,11],forget:3,form:[2,3,6,7,8,11],formul:11,formula:11,forth:[0,2,3],found:[0,4],four:7,fourier:[2,3,6,8,11],frac:[0,1,2,3,4,6,7,8],fraction:2,free:0,frequenc:[2,4],friction:6,from:[0,1,2,3,4,6,8,14],fundament:1,further:[0,1,3,4],gamma:3,gap:2,gas:0,gaussian:6,gdt:0,gener:[0,2,4,8,11],geometr:4,geometri:3,geophys:3,geq2:3,geq:3,get:[0,1,2,3,6,7,13],gibb:11,give:[0,1,2,3,4],given:[1,2,3,4,6,8],goal:[2,6],goe:[2,4],going:8,gonna:[4,8],gradient:6,gradual:6,graviti:0,great:4,greater:2,green:11,greenhous:0,grid:3,growth:2,guess:[1,2,4,6],guid:14,hack:3,had:0,hadlei:3,half:6,hand:[0,1,2,3,6],handl:2,happen:[2,3,6],hard:[3,7,8],harmon:[1,3,7],has:[0,1,2,3,4,6,7,8,12],hat:[1,6],have:[0,1,2,3,4,6,7,8,13],heat:[0,1,3,7,8,11],heavili:4,heavisid:11,height:2,help:[0,1,11],here:[0,1,2,3,4,6,8,12,14],hermit:4,hermitian:4,high:[2,4],higher:[0,1,2,3,4,6,11],hint:[0,2,3],his:[0,4],histori:11,hold:1,holdgraf_evidence_2014:12,homogen:[3,4,6,8,11],hook:8,hopefulli:11,hot:14,how:[0,1,4,6,7,8,10,11,13],howev:[0,1,4,6],html:14,hurrican:[2,4],hwang:2,hyperbol:11,i2x:1,ib_n:6,idea:[0,8],ideal:0,ident:[2,4],identifi:1,ignor:0,iii:[4,11],ikx:6,illustr:3,imag:[5,14],imagin:1,imaginari:[3,5],implement:4,impli:[1,4,6,8],implicit:11,implicitli:0,imposs:0,impuls:11,includ:[0,1,6,11,12,13,14],increas:[1,4],increment:8,inde:[1,3,4],independ:[0,3,6,8,11],index:3,indic:[0,1,2,3,4,6,7,8],induct:3,infer:7,infin:2,infinit:[2,3,4,6],inflow:3,influenc:3,inform:[0,12,13,14],infti:[0,2,3,4,6,7,8],inhomogen:[3,4],init:[12,13],initi:[0,6,11],inner:[3,4],input:12,insert:12,insid:12,inspect:[0,1,2],instead:[1,4,6],instruct:13,int_0:2,int_:[2,3,4,6,7,8],int_a:2,integ:[0,3,4],integr:[0,1,2,3,4,6,8],integrat:0,intensif:3,interact:14,interest:[2,3,4,6],interpret:1,interv:1,intro:12,introduc:[1,2,3,4,6,7],intuit:[2,6],invers:[2,6],involv:1,ion:14,ipynb:12,itcz:[0,4],its:[0,1,2,3,4,6,8,12],j_0:3,j_4:3,j_n:3,jacobian:8,jacqu:4,jean:8,joseph:[4,6],julia:4,jump:[2,4],jupyt:[12,13,14],jupytext:[12,13],just:1,kappa:6,kappa_:6,kappa_c:6,kappa_ct:6,kct:8,keep:[6,14],kei:[1,6],kernel:[6,12,13],kind:[0,1,3,4,6,12],know:[0,1,2,3,4,6,7,8],known:[0,3,8],ku_:6,kv_:6,la_:14,label:[4,5],lambda:[3,4,6,7,8],lambda_n:[4,7],langl:4,languag:[0,12],laplac:[1,3,4,11],last:[0,3,4,6],later:[1,2,3,4,6],law:[0,6,8],lead:[0,1,2,3,4,6],learn:[0,1,2,4,11,12],least:[0,1,6],leav:[0,1,3,4,6,8],left:[0,1,2,3,4,6],legend:[5,14],legendr:[4,7,11],legendre_even:3,length:[3,4,8],leq:[4,6,7,8],less:[2,12],let:[0,1,2,3,4,6,7,8,13],leverag:[1,2,3,4],lib:5,like:[0,1,2,3,4,6,12,13],lim:3,lim_:[3,4],limit:[0,2,6],line2d:14,line:[3,11,12,13,14],linear:[1,2,4,6,7,8,11],linearli:[1,3],linspac:14,liouvil:[3,6,7,11],local:[1,2,6],locat:[0,1,4],logspac:14,longest:4,longrightarrow:[2,4],look:[0,2,3,4,6,8,12],loop:2,lorenz:0,lot:[0,1,2,4,14],lower:[0,2,3,7],luckili:0,machin:2,maclaurin:3,main:[1,11],make:[0,1,2,4,6,8,14],mani:[0,1,2,3,10,12,13],map:2,markdownfil:13,markedli:12,markup:12,mask:2,match:4,materi:[6,8],math:[0,4,11,14],mathbb:[4,6],mathbf:1,mathcal:[2,6],mathemat:[2,4,6,11,12],mathematician:4,mathrm:0,matplotlib:[5,14],matrix:[4,5,8],maximum:[3,4],mbox:14,mean:[0,1,2,6,8,14],mechan:4,medium:[4,14],memor:4,mention:1,mere:0,meridion:3,metadata:12,method:[1,2,8],middl:2,might:1,mimic:1,miniconda3:5,minimum:4,mix:6,mode:[3,6],model:[0,4,6],molecular:6,moment:4,momentum:[3,4],more:[0,1,2,3,4,6,8,11,12,13,14],moreoev:12,most:[0,1,3,4,8,12],motion:1,move:[0,6],much:[1,3,8],multipl:[0,1,2,3,4,8],multipli:[0,1,2,3,4,5],must:[4,12],mydirectivenam:12,n_max:3,nabla:[3,7],name:[4,8,12],nearbi:6,nearli:[2,4],necessari:[0,2,6],necessarili:6,need:[0,1,2,3,4,6,13],neighbor:[4,6],neil:[11,12],neq:[3,4,6],neumann:11,nicknam:2,nj_:3,nois:[2,5],noisi:2,non:[0,1,2,3,4,7],nonhomogen:11,nontrivi:3,nonzero:[3,4],normal:[3,5],note:12,notebook:12,noth:[4,7],notic:[0,1,2,4,6],now:[0,1,2,4,6,8],np_:3,nth:3,number:[2,3,4,6,8],numer:[0,2,11],numpi:[5,14],object:0,observ:[1,2,3,4,6,8],obtain:[0,3,4],occupi:6,occur:4,ocean:1,odd:[3,8],off:13,omega:7,onc:12,one:[0,1,2,3,4,6,7,8,12],oneil17:[11,12],onli:[0,1,3,4,6,7,8,12],onto:[2,6],open:1,oper:[0,2,4],opposit:[7,8],optic:8,order:[2,3,4,6,8,11],ordinari:[0,1,4,11],organ:2,origin:[1,2,6,8],oscil:1,other:[0,1,2,3,4,7,8,13],otherwis:[0,1],our:[0,2,4,6],out:[0,2,4,6,14],output:[12,13],outsid:[4,6],over:[1,2,3,4,6,8],overturn:0,p_0:3,p_1:3,p_2:3,p_3:3,p_4:3,p_n:3,packag:5,page:[12,13],panel:[2,7],paper:3,parabol:[3,4],paramet:[1,4,6],part:[2,3,5,6,7,11],partial:[0,3,4,6,8,11],particl:1,particular:[0,11],partit:0,path:[0,12,13],pattern:12,peopl:4,perhap:[1,2],period:4,peter:[11,12],phenomena:3,phenomenon:[0,11],phi:3,physic:[2,3,4,6,8,11],pictur:[2,4],piec:1,place:[0,6],plai:[3,4],plain:0,plane:[8,11],plate:6,plot:[3,4,5,14],plt:[5,14],plu:2,pm2i:1,point:[0,1,2,4],poisson:11,polar:[3,7],pole:3,polynimi:11,polynomi:[1,4,7],posit:[4,8],possibl:[0,1,2,6],post:14,potenti:[0,11],power:[1,3,11,12],practic:[0,3,4,6,8],pre:12,precis:[0,4],predict:[1,4],predictor:4,prerequisit:11,presenc:13,pressur:0,previou:[1,2,6],previous:4,principl:[1,4],print:[5,12,13],probabl:4,problem:[0,3,4,11],procedur:[0,3],process:[2,3],process_tim:5,product:[1,3,4],project:[2,6],proof:[0,1,2,3],prop_cycl:14,propag:8,proper:[0,4],properli:[4,8,12],proport:[0,6],prove:[1,3,4],provid:[0,2,4],psi:[3,4,6,8],psi_:6,puls:2,purpos:[6,12],pursuit:0,put:[3,6],pyplot:[5,14],python3:5,quantiti:2,quantum:[3,4],question:[0,3,4,6,8,11],quick:0,quickli:6,r_1:1,r_1x:1,r_2:1,r_2x:1,radi:0,radial:3,radiat:[1,4,6],randn:14,random:[5,14],rang:[3,4,14],rangl:4,rare:[0,7],rate:[2,6],ration:6,raw:[2,5],rayleigh:0,rcparam:14,rdt:0,reader:[0,1,2,3,4,6,7,8],real:[2,4,5,8,11],rearrang:[0,2,3,6],reason:3,recal:[1,2,3,4,6],recurr:[1,11],redistribut:6,reduc:[0,4],refer:[3,12],region:6,regress:4,regular:[4,12],rel:[0,12],relat:[0,1,7,8,11],relationship:[3,11],remain:2,remov:[0,4],render:12,reorgan:[0,1,2,3,4,6],repeat:2,replac:[0,3],repres:[0,1,3,4,6,8],reproduc:14,requir:[0,1,11],research:11,reshap:4,resolv:4,respect:[0,3,6,8],respons:[0,1],rest:[12,13],restor:8,result:[1,3,4,6,8,12],retain:4,retangl:[],retriev:3,rewrit:[0,1,2,3,8],rewritten:[6,8],rho:6,riccati:11,rid:0,right:[0,1,2,3,4,6],rightarrow:[3,4,6,8],rise:3,river:0,role:[2,3,4],rolenam:12,root:2,rossbi:0,rule:[1,2,3],run:[2,12,13],s_1t:2,s_2t:2,sai:[0,2],same:[0,1,2,3,4,6,7,8,12],sampl:14,satisfi:[0,3,4,6,7,8],scale:6,scatter:4,scenario:1,schemat:[0,1,2],schubert:3,scienc:[0,2,3,6,8,11],scientif:[4,11],sec:[0,1],second:[1,2,3,4,5,6,7,8,11],section:[1,4,10],see:[0,1,2,3,6,7,12,13,14],seed:14,seen:1,self:4,separ:[3,4,6,7,8,11],seri:[2,11],serv:12,server:1,set:[1,2,3,4,6,7,8,11],setup:[2,4,11],sever:3,shape:2,share:[0,1,2,4,5,8],shift:[4,11],shock:2,should:[0,1,2,4,6,13],show:[0,1,2,3,4,8,13],shown:1,side:[0,1,2,3,6,7],sign:[4,6,7,8,14],signal:[2,4,5,6],signific:3,sim:[3,6,8],similar:[0,1,2,3,4,6,7,8,12],similarili:6,similarli:[0,2,3,4,8],simpl:[1,4,6,8],simpler:8,simplest:[1,3,6,12],simpli:[0,1,4,6],simplic:6,simplif:6,simplifi:[2,3],sin:[0,1,2,3,6,7,8],sinc:[0,1,2,3,4,7],singular:4,sinh:[2,7],sit:1,site:5,size:[2,5,6],skill:11,slight:12,slightli:[2,8],small:[2,4,6,8,12],smaller:3,smooth:[2,6],solut:[0,2,7,11],solv:[0,1,2,3,4,6,7,8,11],solvabl:6,some:[0,2,3,4,6,11,12,14],someth:[2,3],sometim:[2,3],sourc:[1,6],space:[1,3,4,6,11],span:[1,4,12],spatial:6,special:[0,1,2,4,6,7,8,11],specialfunct:3,specif:[0,6,8,12],specifi:[2,4,7],spectrum:11,speed:[0,8],sphere:3,spheric:3,sphinx:12,spread:4,sqrt:[0,1,2,3,4,6,8],squar:[0,4,6],sst:[1,2],st_:2,stage:1,stand:12,start:[0,1,2,5,6,13],state:[1,14],statist:4,stead:6,step:[0,1,2,3,4,6],still:[1,2],store:12,stove:1,str:5,straightforward:0,stretch:[4,8],strict:4,string:[8,11],structur:[3,6,7,12],student:11,studi:[2,3,6],sturm:[3,6,7,11],subject:0,subplot:[5,14],substitut:[0,1,2,3,4,6,7,8],subtract:[2,3],suggest:[1,3,4,6,8],sum:[1,3,8],sum_:[1,3,4,6,7,8],sum_i:1,sum_legendre_even:3,sum_x:3,summat:4,superposit:1,support:13,suppos:[6,8],sure:14,surround:4,swap:4,swim:0,swimmer:0,syllabu:12,syntax:12,system:[0,1,4],t_0:2,t_1:[2,6],t_2:[2,6],t_i:2,t_k:8,t_n:[6,8],take:[0,1,2,3,4,5,6],taken:1,talk:1,tan:[0,1,4],tangenti:3,tau:[2,6],taylor:[1,3],techniqu:[0,1,2,7,11],tell:[0,1,2,4,6],temperatur:[0,1,3,4,6],tempor:[6,8],term:[0,1,2,3,4,6,8],termin:0,test:[0,4,11],tex:14,text:[2,4,12,13],textbook:4,textrm:[2,3,4,6,7,8],than:[0,1,2,3,4,6],thei:[1,3,4,12],them:[0,1,3],theorem:[6,7,11],therefor:[0,1,2,3,4,6,7,8],thermal:[4,6],thermodynam:0,theta:[3,7],thi:[0,1,2,3,4,6,7,8,10,11,12,13,14],thin:4,thing:[3,4,13],think:[2,3,6,8],third:[1,3,4],those:[1,7,12],three:[0,1,2,4,6,11],through:[0,1,2,3,4,6,11],thu:6,time:[0,1,2,5,6,12],ting:2,tip:[2,10],todai:[0,1,2,7],togeth:[6,8],tool:12,top:[2,13],topic:11,total:7,tradit:0,trajectori:0,transform:[0,1,3,6,8,11],transpos:4,transvers:[0,2,3,4],travel:0,treat:13,trick:6,trigonometr:1,trivial:[1,3,4],tropic:[0,3,4],truncat:[3,4],twice:8,two:[0,1,2,3,4,6,7,8,12,13],type:[0,1,6,11],typic:3,u_1:1,u_2:1,u_i:7,u_t:6,u_x:6,u_xx:6,ubiquit:8,unbound:3,uncertainti:4,undermin:1,understand:[1,6,13],undetermin:[1,2],uneven:3,unfortun:0,uniqu:[2,4,11],unit:2,until:2,upper:[2,7],use:[0,1,2,3,4,6,7,12],used:[0,1,2,3,4,11,12],useful:3,user:5,uses:[12,13],using:[0,1,2,3,4,6,7,8,13],usual:[0,1,2,3,4,6],v_t:6,v_x:6,v_xx:6,valid:12,valu:[0,3,4,5,8,11],vanish:3,vari:6,variabl:[0,3,4,6,7,8,11],varianc:4,variat:[1,4,6,12],varieti:11,varphi:[0,4],varphi_k:4,varphi_n:4,vector:[0,4],vein:[0,6],veloc:[0,1,8],veri:[0,1,2,3,6,11,12],verifi:6,versa:6,vertic:[3,7],vibrat:8,vice:6,visual:[2,3,4,6],vmatrix:[1,4],volum:0,wai:[0,1,2,3,4,6,7,10],walk:[0,1,2,4,11],want:[4,6,7,14],warm:1,wave:[0,2,4,6,7,11],wavi:3,weber:3,week:11,weight:3,well:[0,8,14],were:4,what:[1,4,6,11],when:[0,1,2,3,4,6,7,12,13],where:[0,1,2,3,4,6,8],wherea:12,whether:[4,12],which:[0,1,2,3,4,6,7,8,11,12,13],white:5,white_nois:5,who:0,whole:[0,7],why:[1,3,6,8],wide:[0,1,2,3,11],width:4,wiggl:[2,4],wikipedia:1,wind:3,window:[2,11],within:6,without:[0,1,4,6],wok:1,work:[0,11,12,14],world:2,worri:0,would:[0,2,4],write:[0,6,10,12,13],written:[0,1,2,3,4,6,7,8,12,13],wronskian:[4,11],x_0:[0,1,8],x_i:1,x_j:1,x_n:[6,7,8],x_t:8,xai:1,xdx:0,xlim:[4,5],xp_n:3,xyt:6,y_1:[0,1],y_2:[0,1],y_g:1,y_i:1,y_n:[6,7,8],y_p:1,y_t:8,y_x:8,yen:2,yield:[0,2],ylim:4,you:[0,1,11,12,13,14],your:[13,14],zero:[1,2,3,4,6,7],zonal:3},titles:["Week 1 and 2: 1st-order ODE","Week 3 and 4: 2nd-order ODE","Week 5 and 6: Laplace Transform","Week 9 and 10:  Special Functions","Week 7 and 8:  Sturm-Liouville Theorem: Eigenfunctions and Fourier Series","&lt;no title&gt;","Week 11:  Heat Equation","Week 13:  Laplace Equation","Week 12:  Wave Equation","Applied_Math","Content in Jupyter Book","Syllabus","Markdown Files","Notebooks with MyST Markdown","Content with notebooks"],titleterms:{"1st":0,"2nd":1,"case":1,"function":[2,3,4],Adding:12,ODE:[0,1],The:[1,3,4],Using:12,add:13,alembert:8,analysi:4,applied_math:9,approach:2,basic:1,bernoulli:0,bessel:3,block:14,book:[10,11],both:4,boundari:4,categori:[0,1],cell:13,characterist:8,citat:12,code:[12,14],coeffici:[1,4],complex:1,condit:[4,7,8],constant:1,content:[10,14],continu:2,convect:6,convolut:2,cos:4,cours:11,creat:13,delta:2,differ:1,diffus:6,dirac:2,direct:12,dirichlet:7,disk:7,dispers:8,distinct:1,eigenfunct:4,equat:[1,6,7,8],euler:1,exact:0,exampl:[0,1,2,4,6,8,13],execut:12,exist:1,expans:4,file:12,find:4,forc:6,form:[0,1,4],formula:6,fourier:4,gener:[1,3],gibb:4,green:2,heat:6,heavisid:[2,4],histori:6,homogen:[0,1],how:2,iii:1,impuls:2,inclus:6,independ:1,initi:[1,2,7,8],insul:6,jupyt:10,laplac:[2,7],legendr:3,line:8,linear:0,liouvil:4,markdown:[12,13,14],medium:8,metadata:13,modifi:3,motion:8,myst:[12,13,14],nonhomogen:[1,6],note:[3,4],notebook:[13,14],order:[0,1],origin:3,orthogon:4,other:6,outlin:11,output:14,particular:1,phenomenon:4,piecewis:2,plane:6,polynomi:3,power:4,problem:[1,2,6,7,8],process:6,proof:4,properti:1,quickli:13,real:[1,6],rectangl:7,recurr:3,relat:3,relationship:8,repeat:1,riccati:0,role:12,root:1,separ:0,seri:[1,3,4],setup:[7,8],shift:2,sin:4,solut:[1,3,4,6,8],some:1,space:[2,8],special:3,spectrum:4,stick:6,string:6,structur:8,sturm:4,syllabu:11,tabl:2,test:1,theorem:[1,2,4],time:8,transform:[2,4],type:4,unbound:8,uniqu:1,valu:[1,2],wave:8,week:[0,1,2,3,4,6,7,8],weight:4,what:[0,2,12],window:4,work:2,wronskian:1,yaml:13,your:12}})

diff --git a/PDE/Fourier_Transform.html b/PDE/Fourier_Transform.html
@@ -404,7 +404,7 @@ title="Print to PDF"
 </div>
 </div>
 <div class="cell_output docutils container">
-<div class="output text_plain highlight-myst-ansi notranslate"><div class="highlight"><pre><span></span>&lt;matplotlib.legend.Legend at 0x103b4c4f0&gt;
+<div class="output text_plain highlight-myst-ansi notranslate"><div class="highlight"><pre><span></span>&lt;matplotlib.legend.Legend at 0x1041099a0&gt;
 </pre></div>
 </div>
 <img alt="../_images/Fourier_Transform_0_1.png" src="../_images/Fourier_Transform_0_1.png" />
@@ -434,9 +434,9 @@ title="Print to PDF"
 </div>
 </div>
 <div class="cell_output docutils container">
-<div class="output stream highlight-myst-ansi notranslate"><div class="highlight"><pre><span></span>A_k=[[0.96410867]]
-B_k=[[0.00146583]]
-takes：0.437844 seconds
+<div class="output stream highlight-myst-ansi notranslate"><div class="highlight"><pre><span></span>A_k=[[1.04192934]]
+B_k=[[0.06939441]]
+takes：0.252729 seconds
 </pre></div>
 </div>
 <div class="output stderr highlight-myst-ansi notranslate"><div class="highlight"><pre><span></span>/Users/Shared/miniconda3/envs/default_env2/lib/python3.9/site-packages/matplotlib/cbook/__init__.py:1298: ComplexWarning: Casting complex values to real discards the imaginary part
@@ -460,8 +460,8 @@ takes：0.437844 seconds
 </div>
 </div>
 <div class="cell_output docutils container">
-<div class="output stream highlight-myst-ansi notranslate"><div class="highlight"><pre><span></span>A_k=[[0.96410867]]
-B_k=[[0.00146583]]
+<div class="output stream highlight-myst-ansi notranslate"><div class="highlight"><pre><span></span>A_k=[[1.04192934]]
+B_k=[[0.06939441]]
 </pre></div>
 </div>
 </div>
@@ -479,7 +479,7 @@ B_k=[[0.00146583]]
 </div>
 </div>
 <div class="cell_output docutils container">
-<div class="output stream highlight-myst-ansi notranslate"><div class="highlight"><pre><span></span>takes：0.001020 seconds
+<div class="output stream highlight-myst-ansi notranslate"><div class="highlight"><pre><span></span>takes：0.002986 seconds
 </pre></div>
 </div>
 <div class="output stderr highlight-myst-ansi notranslate"><div class="highlight"><pre><span></span>/Users/Shared/miniconda3/envs/default_env2/lib/python3.9/site-packages/matplotlib/cbook/__init__.py:1298: ComplexWarning: Casting complex values to real discards the imaginary part

diff --git a/PDE/Laplace_equation.html b/PDE/Laplace_equation.html
@@ -472,7 +472,7 @@ u(x,y) = \sum_{i=1}^{4}  u_i(x,y)
 </div>
 <div class="section" id="dirichlet-problem-for-a-disk">
 <h2>Dirichlet Problem for a Disk<a class="headerlink" href="#dirichlet-problem-for-a-disk" title="Permalink to this headline">¶</a></h2>
-<p>If today, we setup a problem on a disk. It’s a rare case when we use Cartesian coordinate but not so rare when we are using polar coordinate i.e., <span class="math notranslate nohighlight">\(x=r\cos(\theta)\)</span> and <span class="math notranslate nohighlight">\(y=r\sin(\theta)\)</span></p>
+<p>If today, we setup a problem on a disk (<span class="math notranslate nohighlight">\(\Omega \; \in x^2+y^2&lt;R^2\)</span>). It’s a rare case when we use Cartesian coordinate but not so rare when we are using polar coordinate i.e., <span class="math notranslate nohighlight">\(x=r\cos(\theta)\)</span> and <span class="math notranslate nohighlight">\(y=r\sin(\theta)\)</span>.</p>
 </div>
 </div>
 

diff --git a/notebooks.html b/notebooks.html
@@ -458,7 +458,7 @@ For example, here’s some sample Matplotlib code:</p>
 </div>
 </div>
 <div class="cell_output docutils container">
-<div class="output text_plain highlight-myst-ansi notranslate"><div class="highlight"><pre><span></span>&lt;matplotlib.pyplot._IonContext at 0x105c99ca0&gt;
+<div class="output text_plain highlight-myst-ansi notranslate"><div class="highlight"><pre><span></span>&lt;matplotlib.pyplot._IonContext at 0x1084a3f70&gt;
 </pre></div>
 </div>
 </div>

diff --git a/_sources/PDE/Laplace_equation.md b/_sources/PDE/Laplace_equation.md
@@ -148,5 +148,7 @@ u(x,y) = \sum_{i=1}^{4}  u_i(x,y)
 
 ## Dirichlet Problem for a Disk
 
-If today, we setup a problem on a disk. It's a rare case when we use Cartesian coordinate but not so rare when we are using polar coordinate i.e., $x=r\cos(\theta)$ and $y=r\sin(\theta)$
+If today, we setup a problem on a disk ($\Omega \; \in x^2+y^2<R^2$). It's a rare case when we use Cartesian coordinate but not so rare when we are using polar coordinate i.e., $x=r\cos(\theta)$ and $y=r\sin(\theta)$. 
+
+
 
